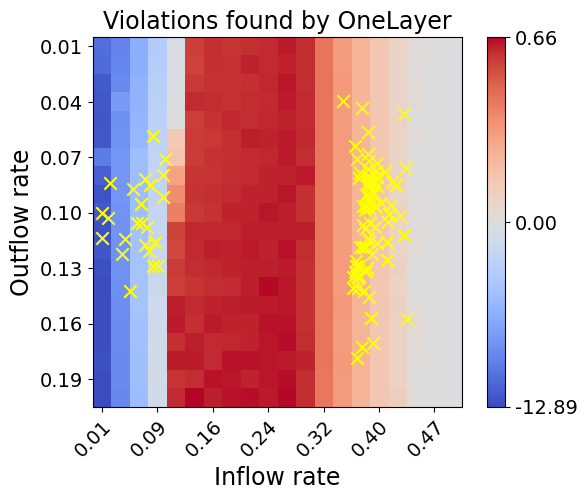
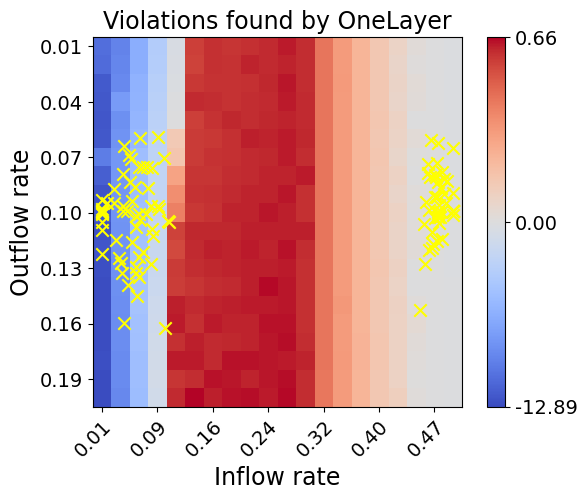
Bug fix in one-layer matlab and rerun WTK T and RL

diff --git a/robustness/analysis/algorithms/MyFalsificationProblem.m b/robustness/analysis/algorithms/MyFalsificationProblem.m
@@ -10,8 +10,8 @@ methods
     function this = MyFalsificationProblem(dev_names, dev_0, dev_bounds, BrSys, phi)
         this = this@FalsificationProblem(BrSys, phi);
         this.dev_names = dev_names;
-        this.dev_0 = rescale(dev_0, dev_bounds(:, 1), dev_bounds(:, 2));
         this.dev_bounds = dev_bounds;
+        this.dev_0 = this.normalize_delta(dev_0);
 
         this.dev_param_idx = zeros(size(dev_names));
         for i = 1:length(dev_names)
@@ -23,9 +23,13 @@ methods
         [obj, cval, x_stoch] = this.objective_fn@FalsificationProblem(x);
         
         delta = x(this.dev_param_idx, :);
-        delta = rescale(delta, this.dev_bounds(:, 1), this.dev_bounds(:, 2));
+        delta = this.normalize_delta(delta);
         dist = sqrt(sum((delta - this.dev_0).^2));
         obj = obj + dist;
+    end
+
+    function [result] = normalize_delta(this, delta)
+        result = (delta - this.dev_bounds(:, 1)) ./ (this.dev_bounds(:, 2) - this.dev_bounds(:, 1));
     end
 
 end
